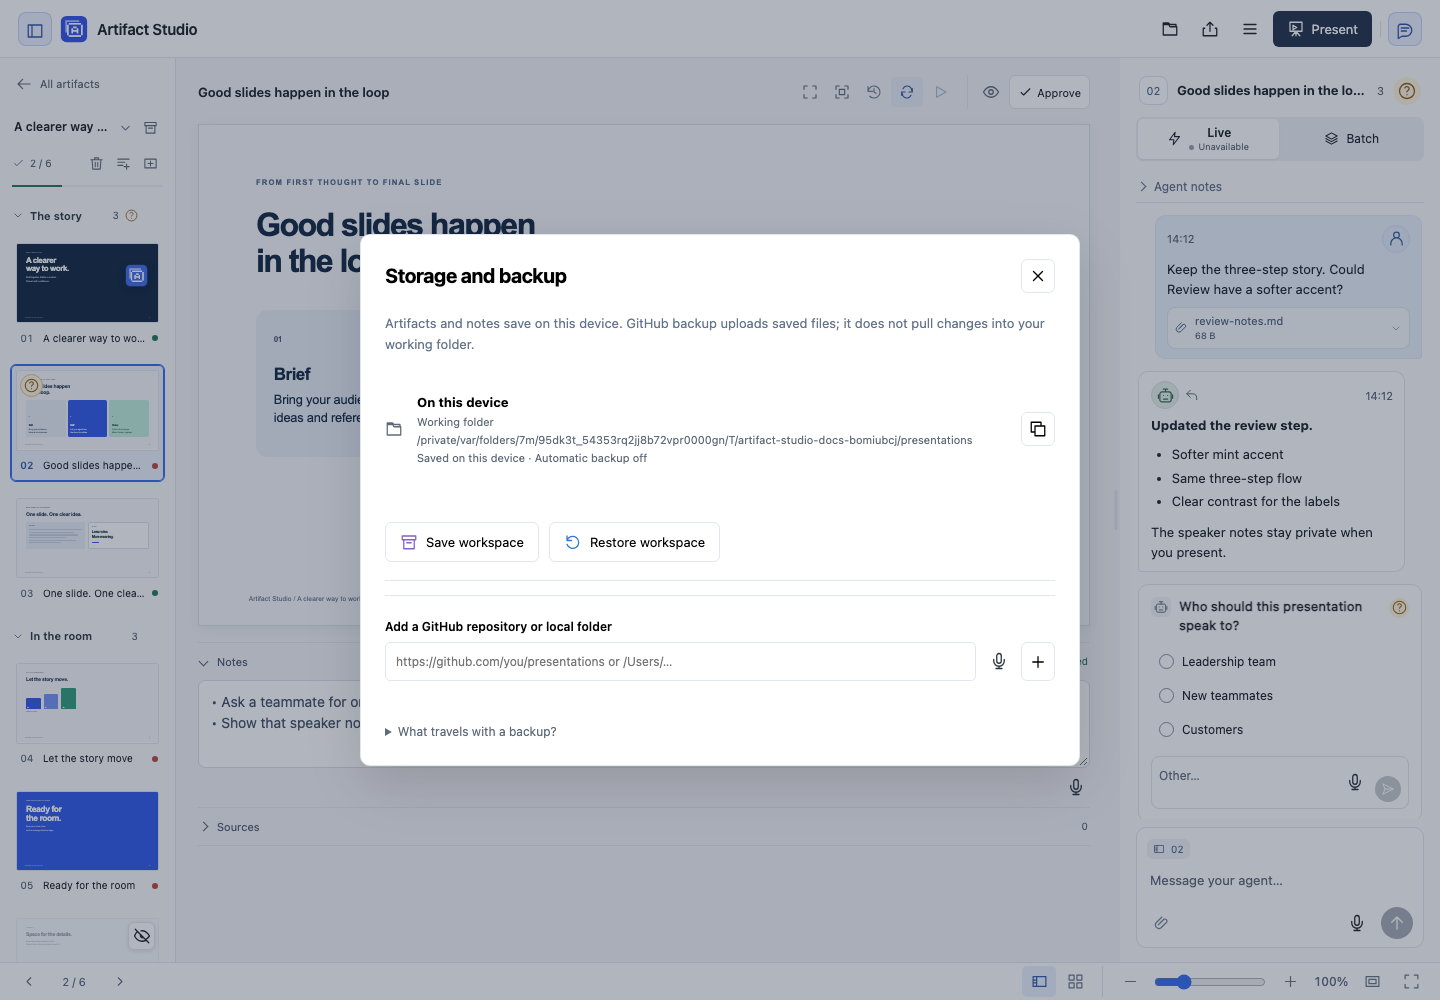
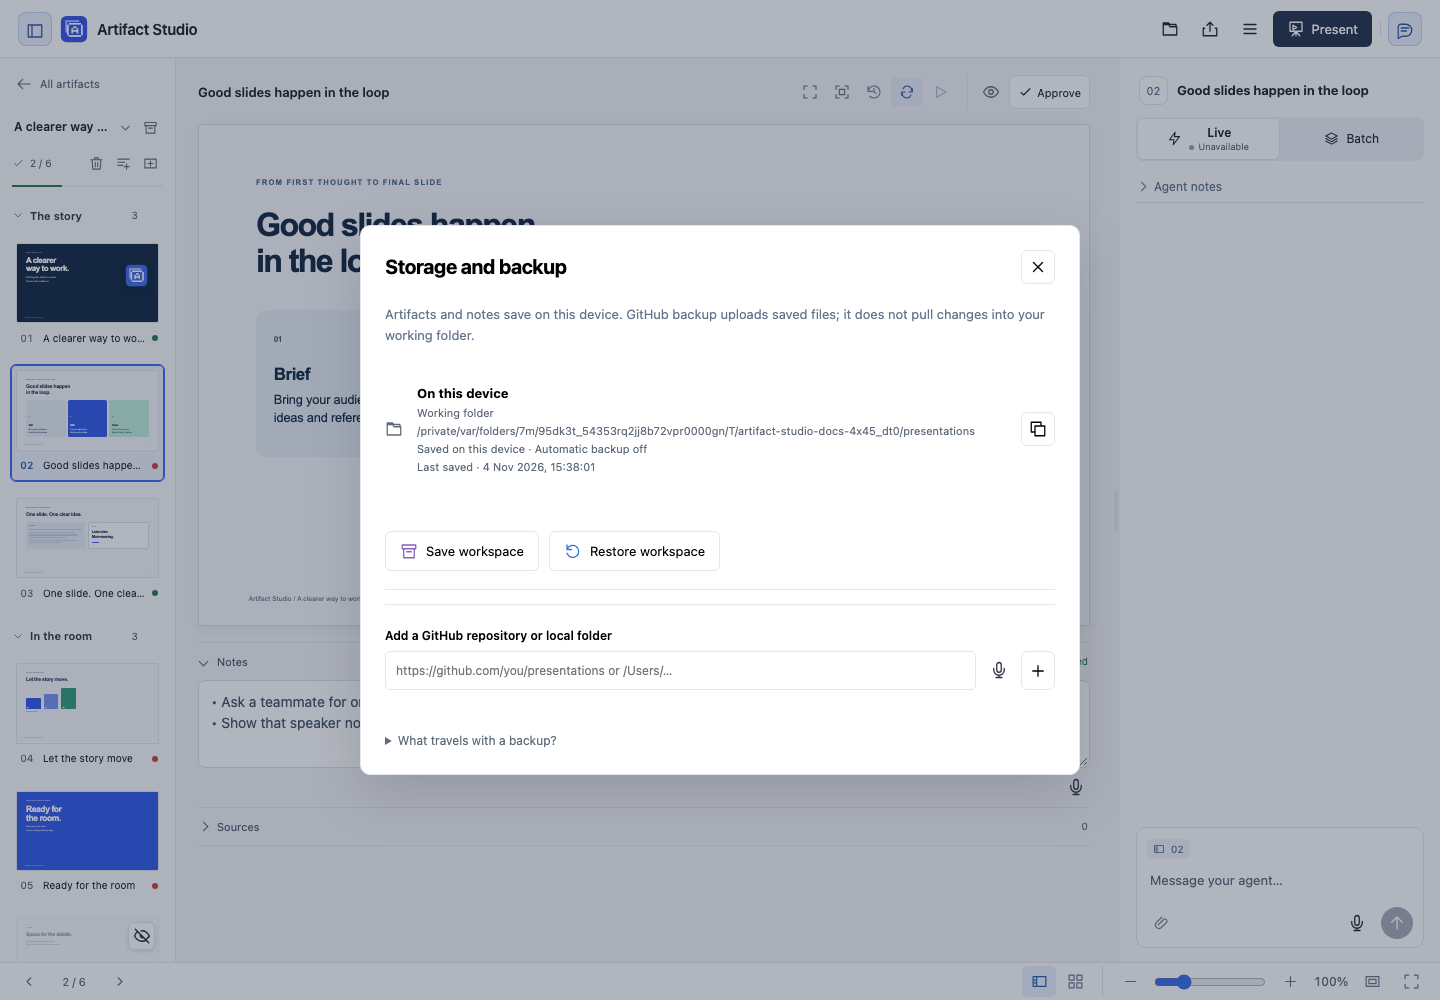
feat(storage): show the last local save time

diff --git a/web/libraries.js b/web/libraries.js
@@ -33,9 +33,9 @@
       const state=backupSummary(libraries,statuses,localState,unavailable),control=$('storage-status');
       button(control,state.icon,'Storage and backup: '+state.text);control.dataset.phase=state.phase;control.title=state.text;
     }
-    function timestamp(value){
+    function timestamp(value,seconds=false){
       if(!value)return '';
-      const date=new Date(value);return Number.isNaN(date.getTime())?'':new Intl.DateTimeFormat(undefined,{dateStyle:'medium',timeStyle:'short'}).format(date);
+      const date=new Date(value);return Number.isNaN(date.getTime())?'':new Intl.DateTimeFormat(undefined,{dateStyle:'medium',timeStyle:seconds?'medium':'short'}).format(date);
     }
     function renderRows(force=false){
       if(!libraries||busy&&!force)return;
@@ -44,10 +44,11 @@
         libraries.some(item=>item.auto_sync_enabled)?'Saved on this device':'Saved on this device · Automatic backup off';
       const markup=libraries.map(item=>{
         const state=states.get(item.id),collection=item.id==='collection';
+        const lastSaved=collection?timestamp(item.last_saved_at,true):'';
         const type=collection?'Working folder':item.kind==='github'?(item.auto_sync_enabled?'Private GitHub backup':item.sync_enabled?'Manual GitHub backup':'GitHub reference · read-only'):'Local reference · read-only';
         return `<article class="library-row"><span class="library-symbol">${svg(item.kind==='github'?'github':'folder')}</span>
           <div class="library-description"><strong>${escape(collection?'On this device':item.location)}</strong><small>${type}</small>
-          ${collection?`<small class="library-path">${escape(item.location)}</small><small>${localLabel}</small>`:''}
+          ${collection?`<small class="library-path">${escape(item.location)}</small><small>${localLabel}</small><small class="local-save-time">Last saved · ${lastSaved?`<time datetime="${escape(item.last_saved_at)}">${escape(lastSaved)}</time>`:'—'}</small>`:''}
           ${item.kind==='github'?`<label class="library-auto"><input type="checkbox" data-auto-sync="${escape(item.id)}" ${item.auto_sync_enabled?'checked':''}><span>Back up all artifacts</span></label>`:''}
           ${item.auto_sync_enabled?`<small class="sync-state sync-${escape(state?.phase||'pending')}">${({pending:'Waiting to back up',syncing:'Backing up…',synced:'Backed up',error:'Backup needs attention'})[state?.phase]||'Waiting to back up'}</small>
             ${state?.last_synced_at?`<small>Last backup · <time datetime="${escape(state.last_synced_at)}">${escape(timestamp(state.last_synced_at))}</time></small>`:''}

diff --git a/artifact_studio/libraries.py b/artifact_studio/libraries.py
@@ -8,9 +8,12 @@ import re
 import shutil
 import subprocess
 import tempfile
+import threading
+import time
 from collections import defaultdict
 from collections.abc import Generator
 from contextlib import contextmanager
+from datetime import UTC, datetime
 from pathlib import Path
 from typing import Literal
 
@@ -72,6 +75,7 @@ class Library(StrictModel):
     path: str
     sync_enabled: bool = False
     auto_sync_enabled: bool = False
+    last_saved_at: str | None = None
 
 
 class LibrarySyncSettings(StrictModel):
@@ -256,6 +260,77 @@ def inventory(
     return sorted(result, key=lambda item: item.path)
 
 
+# Libraries are reconstructed for each request, so cache observations across instances.
+_SAVE_CACHE: dict[tuple[Path, tuple[Path, ...]], tuple[float, str | None]] = {}
+_SAVE_CACHE_LOCK = threading.Lock()
+_SAVE_CACHE_SECONDS = 15.0
+
+
+def last_local_save(root: Path, cache: Path, references: tuple[Path, ...] = ()) -> str | None:
+    """Observe the newest eligible saved file without reading its contents."""
+    resolved = root.resolve()
+    exclusions = {cache.resolve(), *(path.resolve() for path in references)}
+    key = (
+        resolved,
+        tuple(
+            sorted(
+                path for path in exclusions if path != resolved and path.is_relative_to(resolved)
+            )
+        ),
+    )
+    with _SAVE_CACHE_LOCK:
+        now = time.monotonic()
+        previous = _SAVE_CACHE.get(key)
+        if previous is not None and now - previous[0] < _SAVE_CACHE_SECONDS:
+            return previous[1]
+        try:
+            newest: int | None = None
+
+            def fail(error: OSError) -> None:
+                """Avoid presenting a partial inventory as a complete observation."""
+                raise error
+
+            if not root.is_dir():
+                raise FileNotFoundError(root)
+            for folder, directories, names in root.walk(follow_symlinks=False, on_error=fail):
+                directories[:] = [
+                    name
+                    for name in directories
+                    if not name.startswith(".")
+                    and (
+                        name not in EXCLUDED
+                        or artifact_source((folder / name).relative_to(root) / "placeholder")
+                    )
+                    and not revision_directory((folder / name).relative_to(root))
+                    and not (folder / name).is_symlink()
+                    and not any((folder / name).resolve().is_relative_to(path) for path in key[1])
+                ]
+                for name in names:
+                    path = folder / name
+                    relative = path.relative_to(root)
+                    if (
+                        relative == Path("workspace-recovery.json")
+                        or re.search(r"\.(?:db|sqlite|sqlite3)(?:-wal|-shm|-journal)?$", name, re.I)
+                        or not snapshot_allowed(relative)
+                        or path.is_symlink()
+                        or not path.is_file()
+                    ):
+                        continue
+                    modified = path.stat().st_mtime_ns
+                    newest = modified if newest is None else max(newest, modified)
+            result = (
+                datetime.fromtimestamp(newest / 1_000_000_000, UTC).isoformat()
+                if newest is not None
+                else None
+            )
+        except OSError, OverflowError, ValueError:
+            result = None
+        if len(_SAVE_CACHE) >= 128 and key not in _SAVE_CACHE:
+            _ = _SAVE_CACHE.pop(next(iter(_SAVE_CACHE)))
+        _SAVE_CACHE[key] = (now, result)
+        return result
+
+
 def safe_file(root: Path, name: str) -> Path:
     """Resolve a registered document without exposing hidden state or escaped symlinks."""
     relative = Path(name)
@@ -333,17 +408,21 @@ class Libraries:
 
     def list(self) -> list[Library]:
         """Include the canonical collection alongside explicitly registered sources."""
-        local = Library(
-            id="collection", kind="local", location=str(self.store.root), path=str(self.store.root)
-        )
         with self.store.connect() as db:
-            return [
-                local,
-                *(
-                    Library.model_validate_json(str(row[0]))
-                    for row in db.execute("SELECT document FROM libraries ORDER BY id")
-                ),
+            references = [
+                Library.model_validate_json(str(row[0]))
+                for row in db.execute("SELECT document FROM libraries ORDER BY id")
             ]
+        local = Library(
+            id="collection",
+            kind="local",
+            location=str(self.store.root),
+            path=str(self.store.root),
+            last_saved_at=last_local_save(
+                self.store.root, self.cache, tuple(Path(item.path) for item in references)
+            ),
+        )
+        return [local, *references]
 
     def get(self, identifier: str) -> Library:
         """Resolve a registered library ID without treating it as a filesystem path."""

diff --git a/tests/test_libraries.py b/tests/test_libraries.py
@@ -1,8 +1,10 @@
 """Exercise library discovery and safe repeat sync against real disposable Git repositories."""
 
 import asyncio
+import json
 import os
 import threading
+from datetime import datetime
 from pathlib import Path
 
 import pytest
@@ -668,3 +670,89 @@ def test_auto_sync_preserves_previously_managed_revision_history(
     _ = libraries.sync(library.id, automatic=True)
     assert command("git", "--git-dir", str(remote), "show", f"main:{relative}") == "old revision"
     assert relative in json.loads(manifest_path.read_text())
+
+
+def test_local_save_observes_saved_workspace_files_only(
+    tmp_path: Path, monkeypatch: pytest.MonkeyPatch
+) -> None:
+    """Use file modification times, ignoring private state, history and cached references."""
+    root = tmp_path / "collection"
+    root.mkdir()
+    store = Store(root, root / "state" / "review.sqlite3")
+    libraries = Libraries(store)
+    clock = 10.0
+    monkeypatch.setattr(module.time, "monotonic", lambda: clock)
+
+    def saved(relative: str, stamp: int) -> Path:
+        """Create a fictional file with a deterministic modification time."""
+        path = root / relative
+        path.parent.mkdir(parents=True, exist_ok=True)
+        _ = path.write_text("fictional")
+        os.utime(path, (stamp, stamp))
+        return path
+
+    saved("deck/index.html", 100)
+    saved("deck/notes.md", 200)
+    saved("INSTRUCTIONS.md", 300)
+    source = saved("projects/p/artifacts/a/files/research/source.bin", 400)
+    saved("projects/p/artifacts/a/revisions/1/files/old.html", 900)
+    saved("workspace-recovery.json", 900)
+    saved("review.sqlite3", 900)
+    saved("state/libraries/cached/index.html", 900)
+    saved(".hidden/file.html", 900)
+
+    def refuse_read(_: Path) -> bytes:
+        """Ensure observation never opens file contents."""
+        pytest.fail("contents were read")
+
+    monkeypatch.setattr(Path, "read_bytes", refuse_read)
+    first = libraries.list()[0].last_saved_at
+    assert first is not None and datetime.fromisoformat(first).timestamp() == 400
+    os.utime(source, (500, 500))
+    assert Libraries(store).list()[0].last_saved_at == first
+    clock += 16
+    second = Libraries(store).list()[0].last_saved_at
+    assert second is not None and datetime.fromisoformat(second).timestamp() == 500
+    clock += 16
+    assert Libraries(store).list()[0].last_saved_at == second
+
+
+def test_local_save_empty_or_unavailable_is_unknown(tmp_path: Path) -> None:
+    """An empty or missing collection has no invented save timestamp."""
+    root = tmp_path / "empty"
+    root.mkdir()
+    cache = tmp_path / "cache"
+    assert module.last_local_save(root, cache) is None
+    root.rmdir()
+    assert module.last_local_save(root, tmp_path / "other-cache") is None
+
+
+def test_local_save_excludes_registered_nested_reference_and_serializes(
+    tmp_path: Path, monkeypatch: pytest.MonkeyPatch
+) -> None:
+    """Exclude registered references without hiding a collection registered as itself."""
+    root = tmp_path / "collection"
+    root.mkdir()
+    source = root / "deck" / "index.html"
+    source.parent.mkdir()
+    _ = source.write_text("<aside>Notes in presentation</aside>")
+    os.utime(source, (0, 0))
+    reference = root / "reference-library"
+    reference.mkdir()
+    _ = (reference / "reference.html").write_text("read-only reference")
+    store = Store(root, tmp_path / "state" / "review.sqlite3")
+    libraries = Libraries(store)
+    _ = libraries.register(LibraryInput(location=str(reference)))
+    _ = libraries.register(LibraryInput(location=str(root)))
+    _ = libraries.register(LibraryInput(location=str(tmp_path)))
+    monkeypatch.setattr(service, "store", store)
+    item = libraries.list()[0]
+    assert item.last_saved_at is not None
+    assert datetime.fromisoformat(item.last_saved_at).timestamp() == 0
+    assert json.loads(json.dumps(service.get_working_context(include_discovery=True)))
+    response = TestClient(service.app).get("/api/libraries")
+    assert response.status_code == 200
+    assert response.json()[0]["last_saved_at"] == item.last_saved_at
+    assert (
+        service.list_libraries()[0].model_dump(mode="json")["last_saved_at"] == item.last_saved_at
+    )

diff --git a/tests/integration/test_notes_and_backup.py b/tests/integration/test_notes_and_backup.py
@@ -21,6 +21,40 @@ pytestmark = [
 ]
 
 
+@pytest.mark.parametrize("editor", [False, True])
+def test_local_save_timestamp_persists_and_updates(
+    page: Page, live_app: RunningApp, editor: bool, artifacts: Path
+) -> None:
+    """Show persisted file time separately from status reads in both storage dialogs."""
+    if editor:
+        open_editor(page, live_app)
+    else:
+        page.goto(live_app.url)
+    page.locator("#storage-status").click()
+    saved = page.locator("#library-list .local-save-time time")
+    expect(saved).to_be_visible()
+    initial = saved.get_attribute("datetime")
+    assert initial
+    expect(saved).not_to_have_text(initial)
+    page.locator("#close-libraries").click()
+    page.locator("#storage-status").click()
+    expect(saved).to_have_attribute("datetime", initial)
+    source = live_app.store.root / "INSTRUCTIONS.md"
+    _ = source.write_text("Keep fictional slides concise.\n")
+    # A controlled file timestamp distinguishes this save from all fixture assets.
+    modified = (
+        max(path.stat().st_mtime for path in live_app.store.root.rglob("*") if path.is_file()) + 1
+    )
+    os.utime(source, (modified, modified))
+    expect(saved).not_to_have_attribute("datetime", initial, timeout=20_000)
+    latest = saved.get_attribute("datetime")
+    assert latest
+    page.reload()
+    page.locator("#storage-status").click()
+    expect(saved).to_have_attribute("datetime", latest)
+    _ = page.screenshot(path=str(artifacts / "local-save-time.png"))
+
+
 def test_notes_save_on_pause_switch_and_reload(page: Page, live_app: RunningApp) -> None:
     """Persist notes in canonical files while preserving slide context and approval."""
     open_editor(page, live_app)

diff --git a/docs/REPOSITORY-SYNC.md b/docs/REPOSITORY-SYNC.md
@@ -4,6 +4,8 @@ The **storage icon in the library or beside Menu in the slide editor** opens **S
 
 ## Local saving and handoff
 
+**On this device → Last saved** shows the newest saved workspace file time, with seconds in your local timezone. It includes current slides, artifact files, notes and workspace instructions; it excludes caches, revision history and connected references. The observation refreshes within about 15 seconds and survives reopening the app. It is based on existing file modification times, so deleting a file or copying one while preserving its timestamp does not create a new save event. An unavailable timestamp displays **—**; GitHub's backup time is separate.
+
 Slides live in the working folder. Speaker notes save automatically after about 700 ms without typing, on leaving the field/slide, and before project save or presentation startup. **Saved** confirms the canonical file write; **Saving…** means it is pending. Failed requests retain a browser draft. Retry after reconnecting; a restored draft also resumes saving when its baseline is still valid. A concurrent edit opens **Review changes**, with both texts and an explicit choice. Revision checks protect older requests, including when text was changed and then reverted. Notes do not change slide approval.
 
 The storage icon remains visible while the dialog is closed. A pending or failed note save takes priority over an earlier successful backup. GitHub's last successful backup and timestamp describe confirmed delivery; subsequent remote edits are checked at the next delivery, rather than continuously merged into local files.
